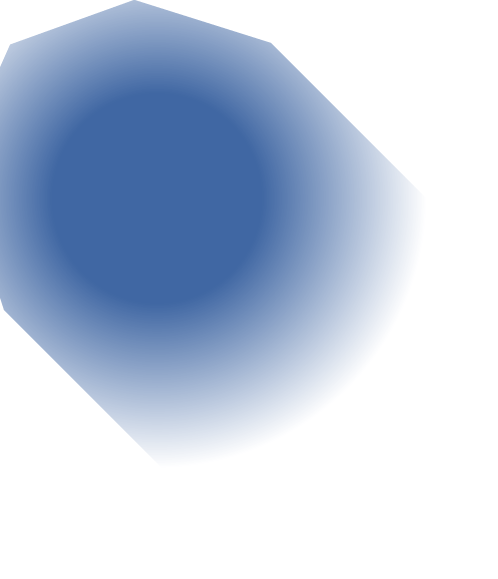
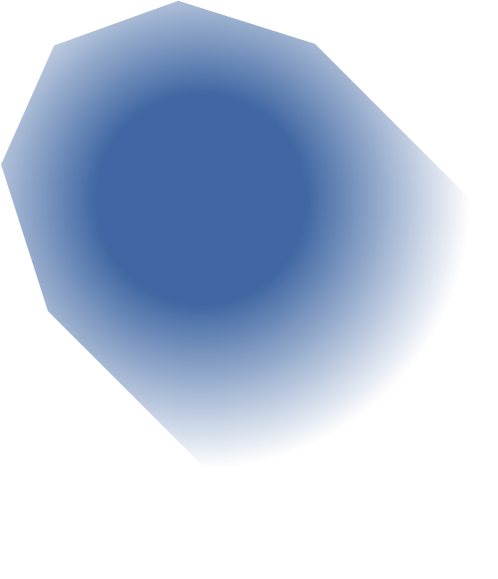
Home progress shadowS

diff --git a/public/ng/app/scss/partials/_radial_progress.scss b/public/ng/app/scss/partials/_radial_progress.scss
@@ -3,6 +3,7 @@ $circle-fill: #D12D4E;
 
 .home .radial-wrapper {
   position:     relative;
+  z-index:      1;
   height:       200px;
   width:        225px;
   display:      block;
@@ -29,23 +30,22 @@ $circle-fill: #D12D4E;
     border-left: 8px solid $circle-fill;
   }
 
-  .overlay {
-    .rank {
-      position:      absolute;
-      width:         175px;
-      display:       block;
-      top:           -8px;
-      left:          28px;
-      border-radius: 50%;
-    }
+  .rank {
+    z-index: 3;
+    position:      absolute;
+    width:         175px;
+    display:       block;
+    top:           -8px;
+    left:          28px;
+    border-radius: 50%;
+  }
 
-    .shadow {
-      position: absolute;
-      width:    300px;
-      top:      -30px;
-      left:     30px;
-      z-index:  -1;
-    }
+  .shadow {
+    position: absolute;
+    width:    300px;
+    top:      -23px;
+    left:     12px;
+    z-index:  -1;
   }
 
   svg {
@@ -56,5 +56,13 @@ $circle-fill: #D12D4E;
       transition: stroke-dashoffset 0.3s linear;
       stroke-linecap: round;
     }
+  }
+
+  .progress-shadow {
+    position: absolute;
+    z-index:  2;
+    width:    250px;
+    top:      23px;
+    left:     58px;
   }
 }

diff --git a/public/ng/app/templates/shared/home.html b/public/ng/app/templates/shared/home.html
@@ -29,10 +29,8 @@
       <div class="radial-wrapper">
         <div class="line-left"></div>
         <div class="line-right"></div>
-        <div class="overlay">
-          <img class="rank" ng-src="{{rankBadge}}">
-          <img class="shadow" ng-src="./images/shadows/home-shadow.png">
-        </div>
+        <img class="rank" ng-src="{{rankBadge}}">
+        <img class="shadow" ng-src="./images/shadows/home-shadow.png">
 
         <progress-arc
           size="232"
@@ -42,8 +40,10 @@
           counter-clockwise="false"
           background="#C7DBEA">
         </progress-arc>
+        <img class="progress-shadow" ng-src="./images/shadows/progress-shadow.png">
       </div>
 
+<!--
       <div class="action">
         <button class="button button-assertive override home bottom-border" ui-sref="app.new_survey">
           Start Case
@@ -61,6 +61,6 @@
         </button>
       </div>
     </div>
-
+ -->
   </ion-content>
 </ion-view>
